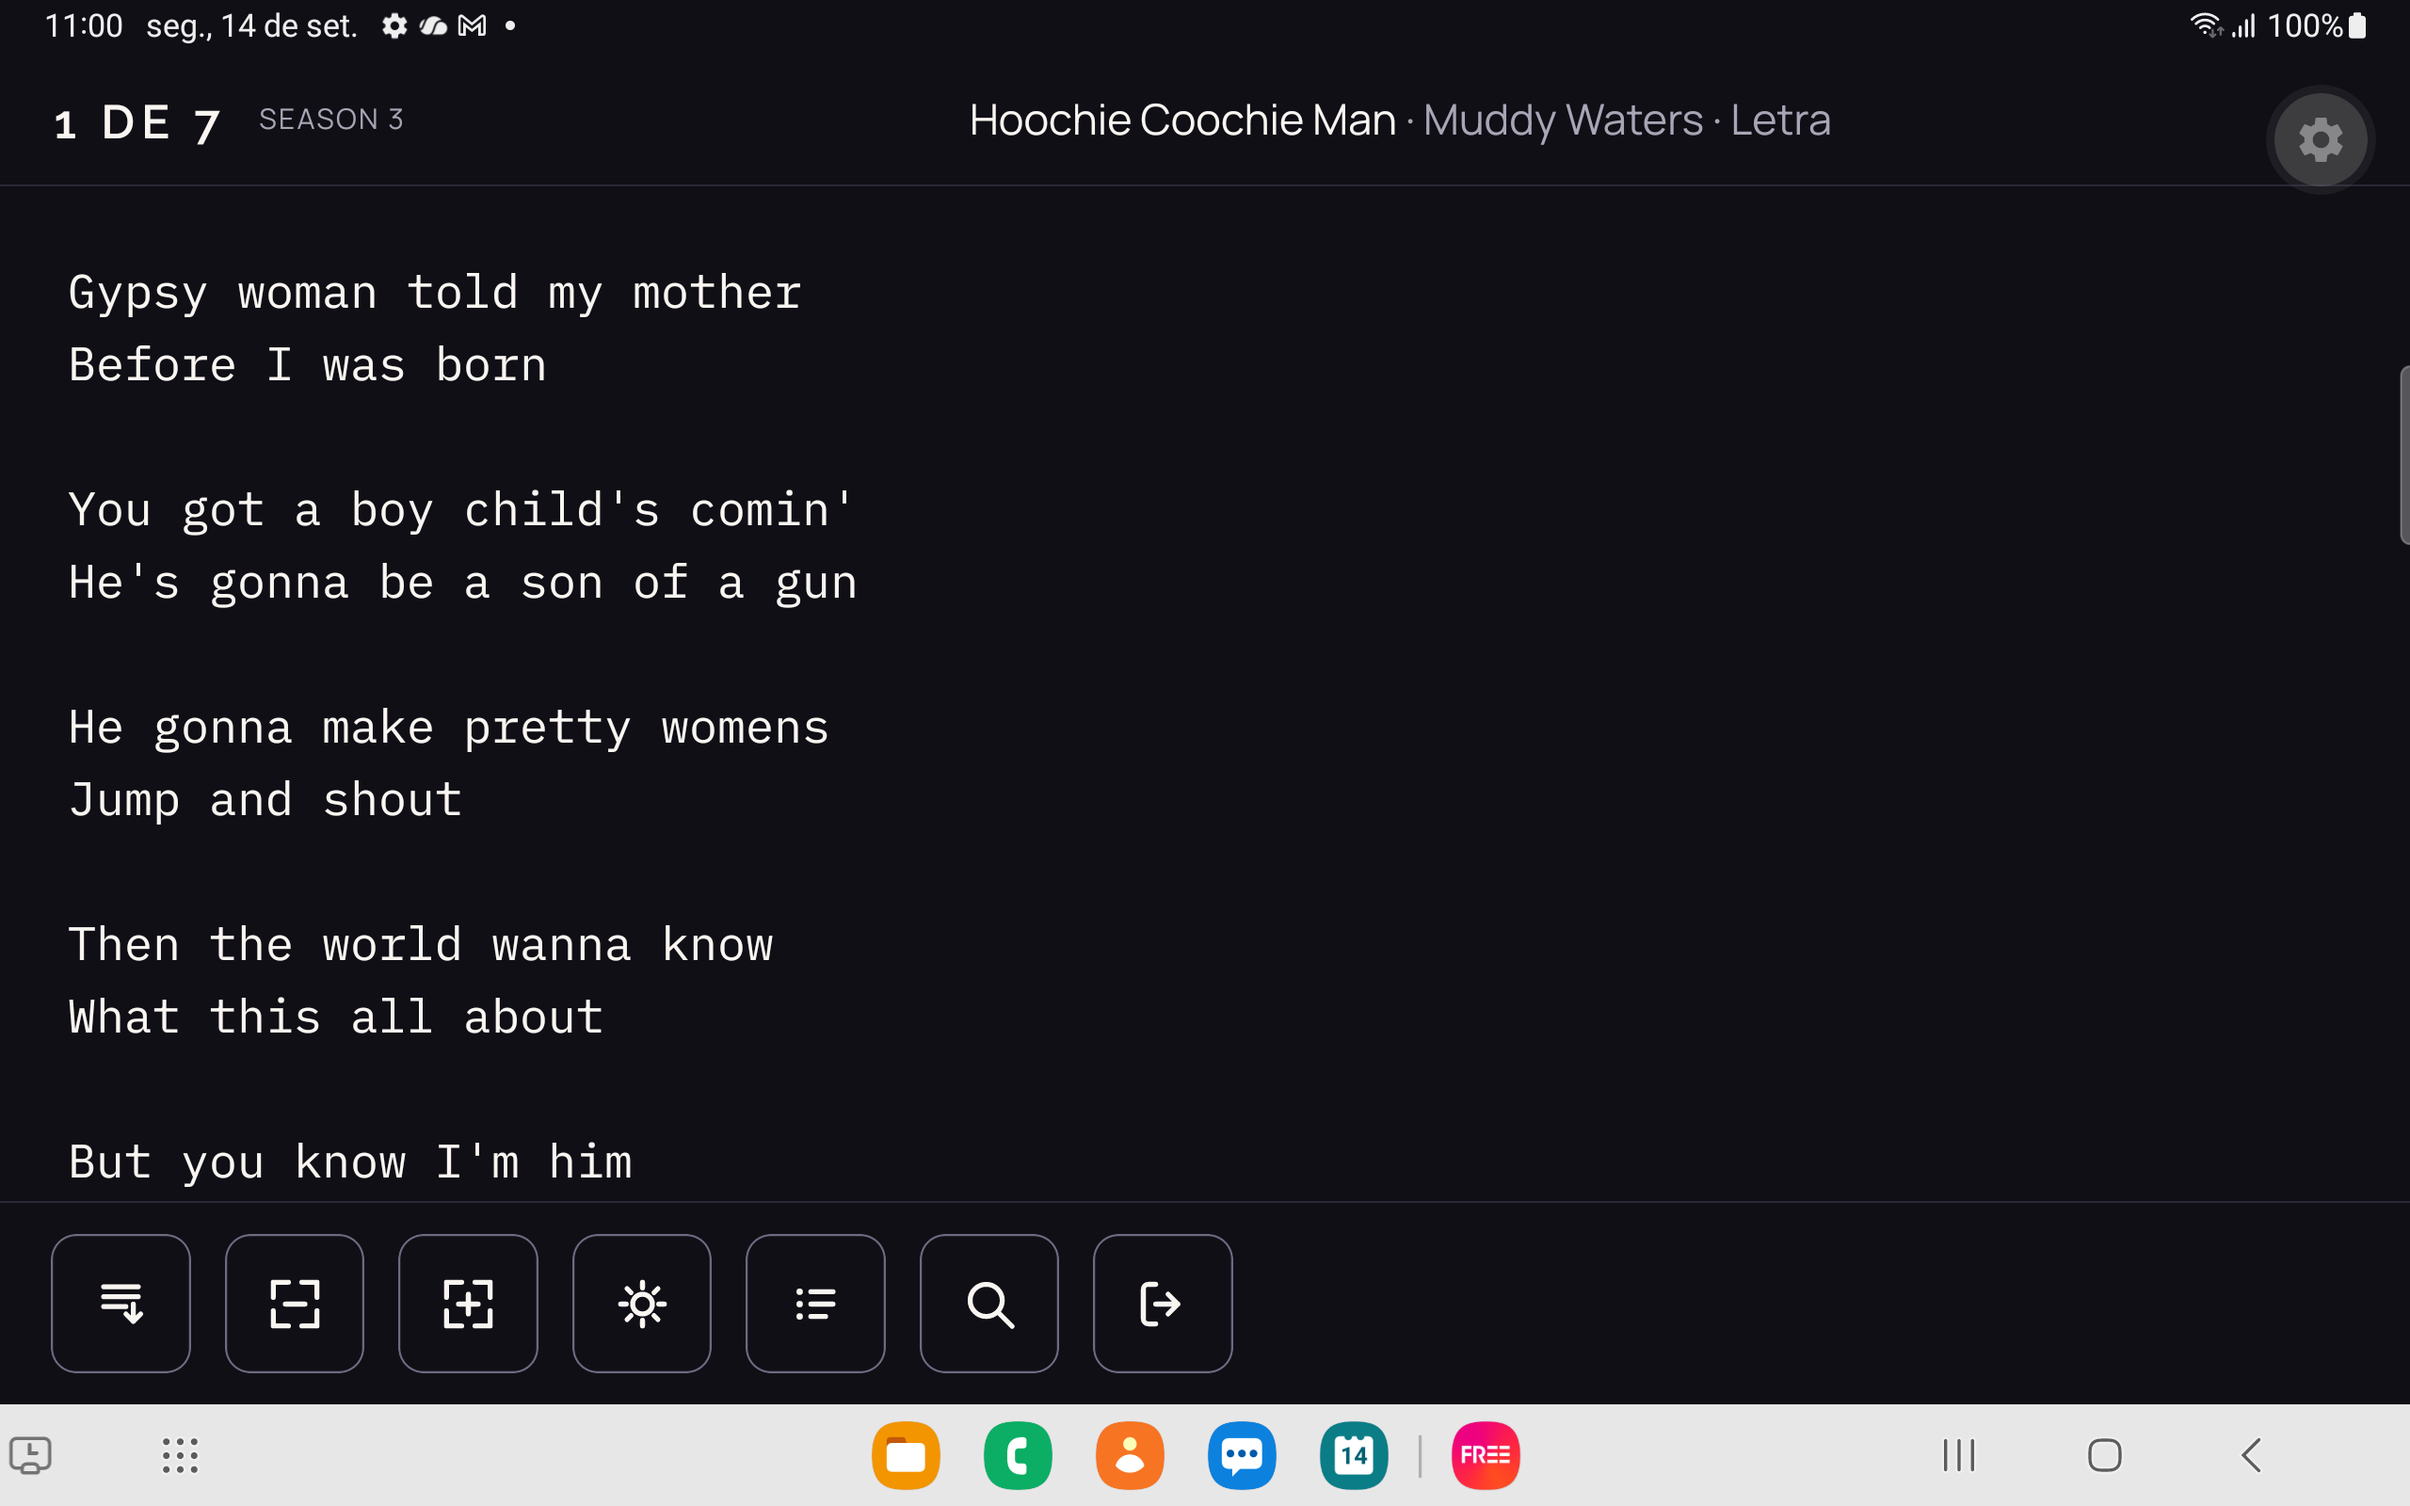
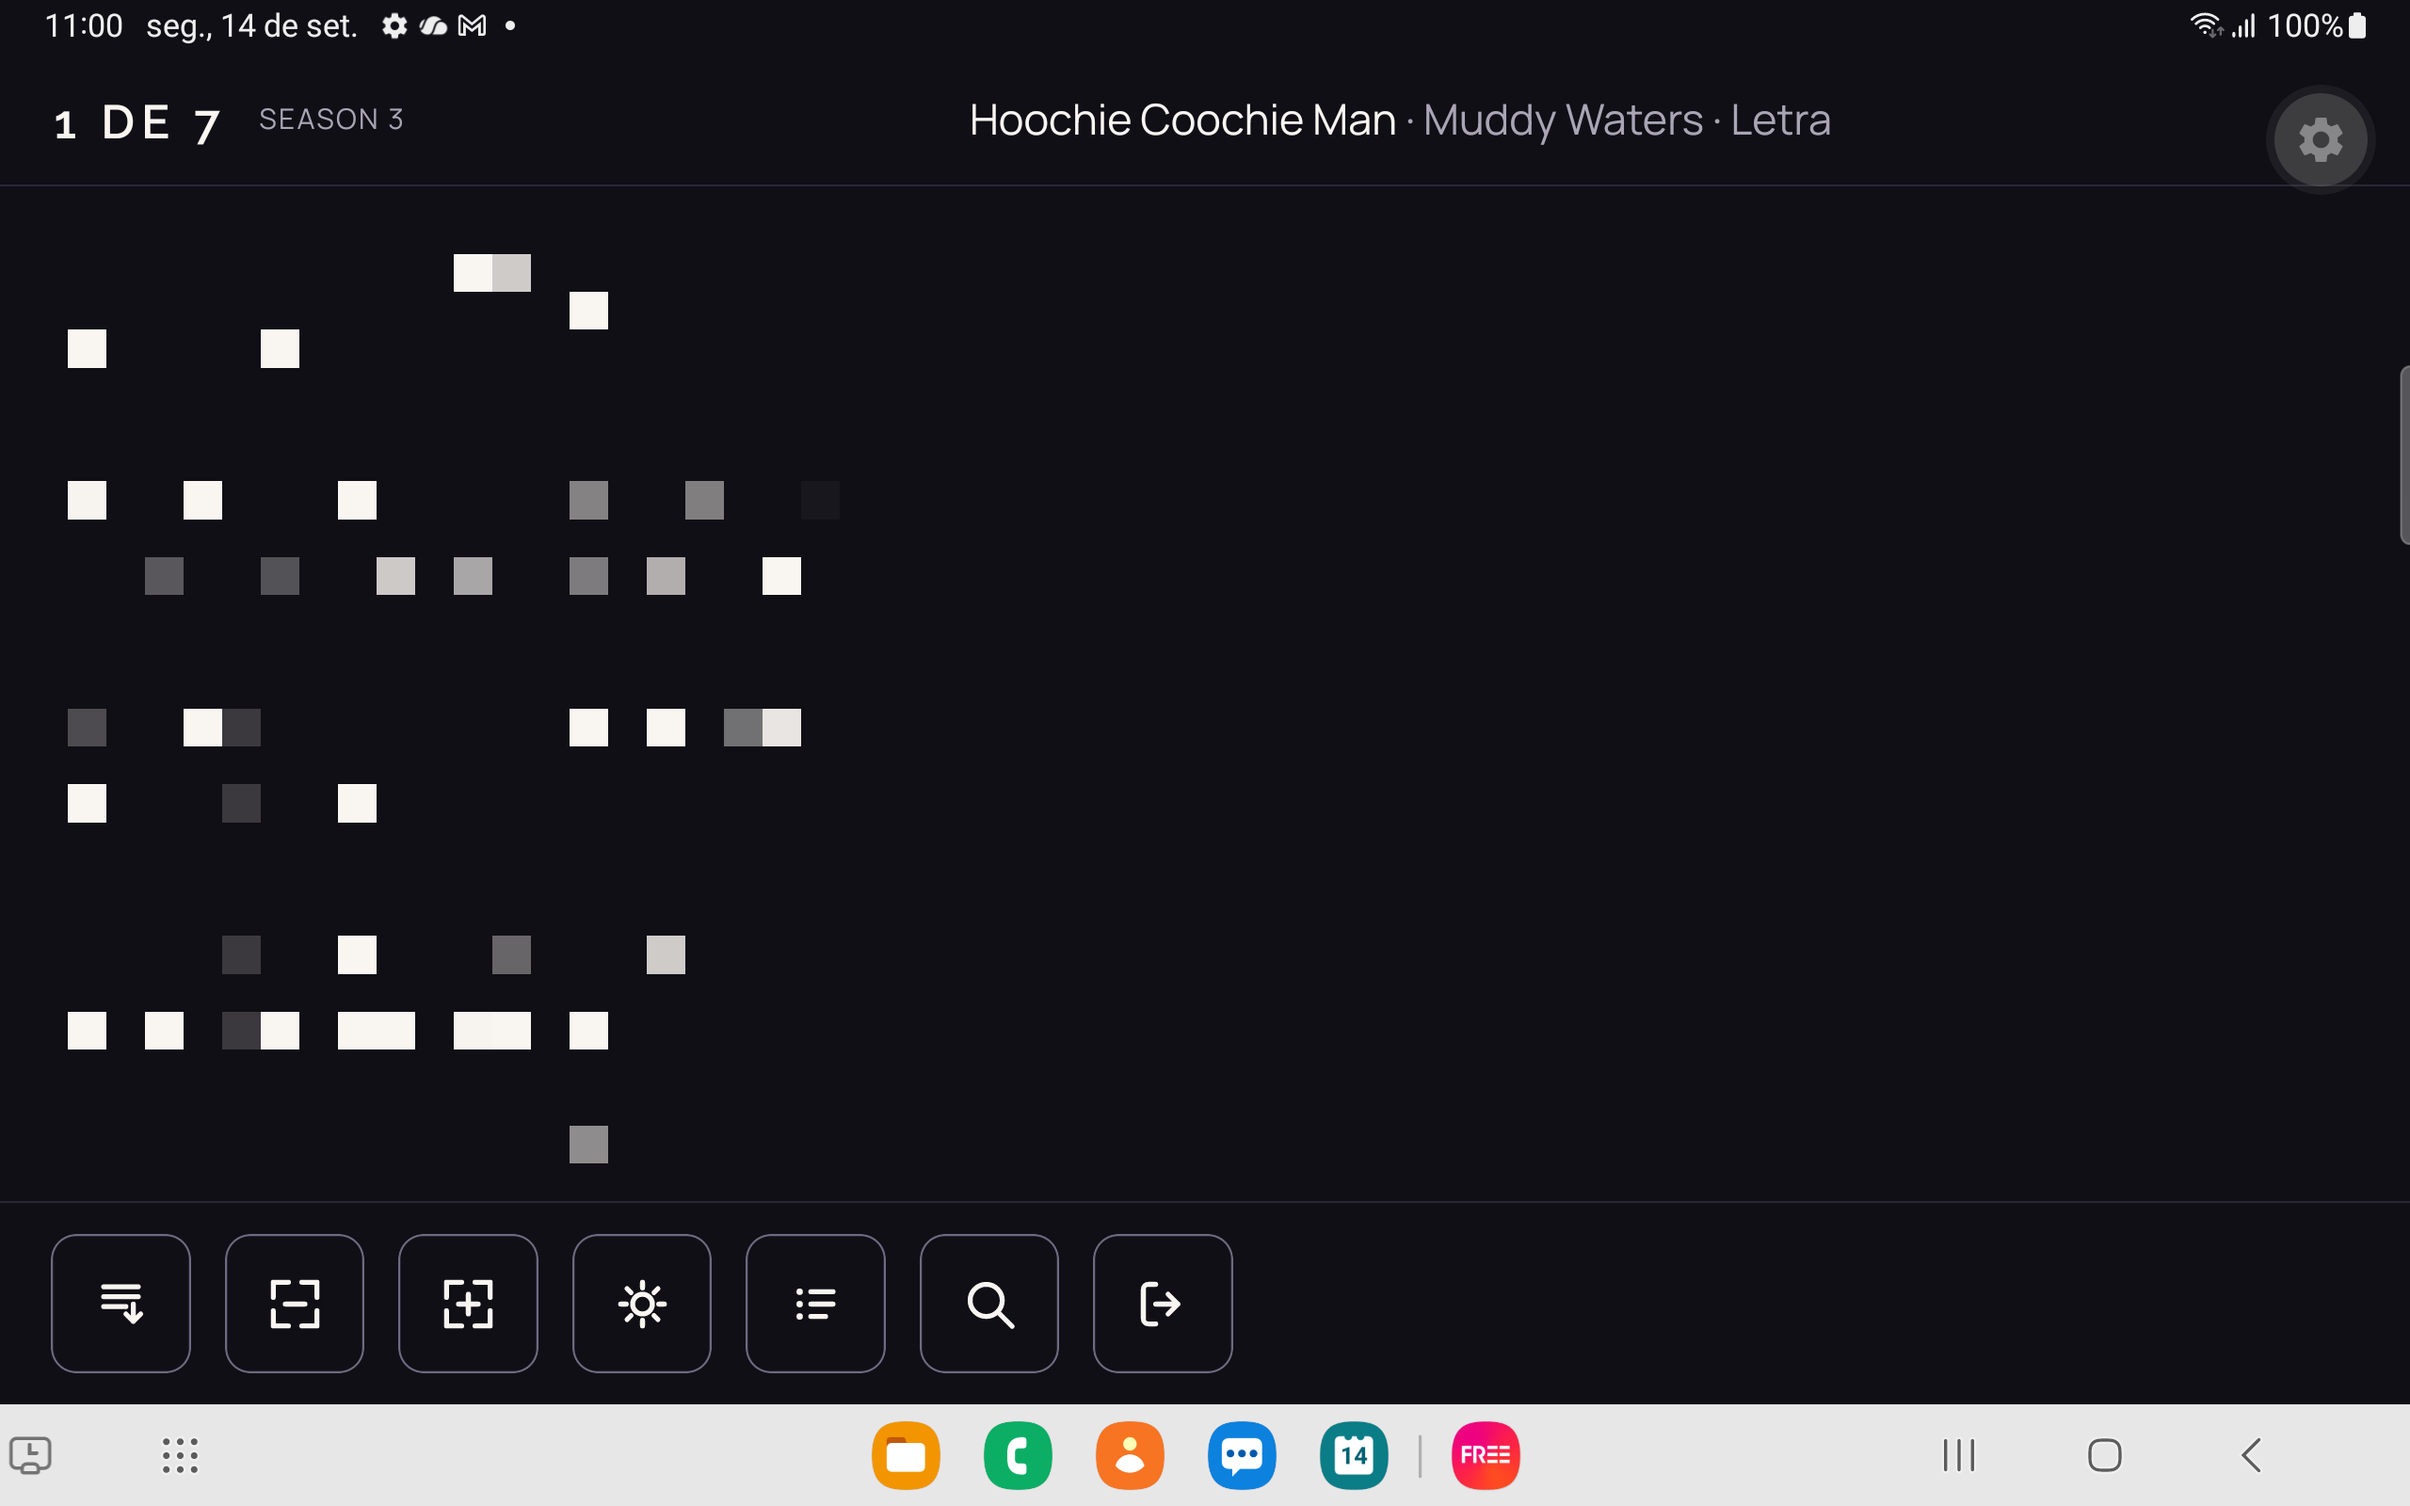
docs(N2): regra completa no CLAUDE.md, PNGs do V1 pixelizadas (div. 210), div. 211 → W4-a
A regra "Anexo não carrega texto de música" ganha os dois limites: o
texto-fixture do projeto (87 arquivos da varredura) fica, e arquivo com
sha256 registrado em documento não se reescreve por ela.

Div. 210 fechada: nas cinco PNGs irmãs dos dumps editados no commit
anterior, só a região do nó corpo foi pixelizada (Pillow, NEAREST, bloco
de 40 px), com o bounds lido do dump ao lado. Dimensões iguais antes e
depois; barras, controles e cabeçalho intactos. Tabela com bounds, região
e sha novo na §5.1 do README.

Div. 211 marcada com destino W4-a, caso 23 do padrão; não investigada
aqui.

diff --git a/docs/native/N2-BRIEF-anexos/README.md b/docs/native/N2-BRIEF-anexos/README.md
@@ -144,9 +144,39 @@ atributos `text` mascarados é **idêntica** antes e depois, o número de
 atributos `text` não mudou (72, 72, 72, 72, 71) e **um** deles difere. Os
 cinco continuam válidos como XML.
 
+### 5.1 As cinco PNGs irmãs (div. 210)
+
+Cada imagem teve **só** a região do nó `corpo` pixelizada, com o `bounds`
+lido do dump ao lado dela — o mesmo `bounds` que o marcador
+`[… bounds preservado]` cita. Bloco de **40 px**: nenhum verso fica legível,
+e barras, controles, cabeçalho e barra de status seguem intactos, como a
+prova de cada aceite do V1-PR7 exige. O arquivo é reescrito no lugar, com as
+mesmas dimensões.
+
+O comando, verbatim (Pillow 12.3.0 num venv do scratchpad; `BLOCK = 40`):
+
+```python
+reg = im.crop((x1, y1, x2, y2))
+peq = reg.resize((reg.width // BLOCK, reg.height // BLOCK), Image.NEAREST)
+im.paste(peq.resize(reg.size, Image.NEAREST), (x1, y1))
+```
+
+| arquivo (`docs/native/V1-PR7-anexos/dumps-tabs6/`) | `bounds` pixelizado | região | antes | depois | sha256 depois |
+|---|---|---|---|---|---|
[5 lines of base64/hex data omitted]
+
+As três primeiras imagens continuam **diferentes entre si** — o relógio do
+aparelho marca 10:37 em `A16-palco-inicio.png`, 11:00 em `A16-palco-fim.png`
+e 10:29 em `S3-palco-1de7.png` —, embora os três XML sejam idênticos entre
+si. Ver div. 211.
+
 | div. | o que | o que foi feito |
 |---|---|---|
 | **208** | O alcance da div. 204 é maior do que um arquivo, e as duas classes são diferentes: letra de terceiro contra texto-fixture do projeto. Além disso, **6** dos 92 arquivos têm o sha256 registrado em docs (`C-PRECHECK-anexos/B-P2-setlists.json`, `B-P5-content.json`, `B-P6-setlist.json` em `C-PRECHECK.md`/`C-ENCERRAMENTO.md`; `V1-A1-inventario-alvos.txt` em `V1-PRECHECK.md`; `V1-PR6-A-estados-antes-depois.txt` no README do V1-PR6; `DESIGN-V1/telas.html` no `SHA256SUMS` do design congelado) — reescrever qualquer um deles quebraria o registro. | Decisão do Marcel (2026-09-20): **só as 5 letras reais**. Nenhum sha registrado mudou; o design congelado não foi tocado. A regra do `CLAUDE.md` vale **para frente**: o texto-fixture do projeto não é obra de terceiro, mas anexo novo também não precisa carregá-lo. |
 | **209** | A omissão vale para o **conteúdo atual**, não para a história. O `C6.png` inteiro está no commit `34d7064` desta branch, e os cinco dumps do V1-PR7 estão na `main` desde a PR #300. | Registrado. Tirar da história exigiria reescrever a branch (`--force-with-lease`, ainda possível aqui porque a PR não foi mergeada) e, na `main`, reescrever história já publicada — **decisão do Marcel**, não feita aqui. |
-| **210** | As **PNGs irmãs** dos cinco dumps (`A16-palco-inicio.png`, `A16-palco-fim.png`, `S3-palco-1de7.png`, `AVicones-A-texto.png`, `S3-tema-claro.png`) mostram a mesma letra na tela do palco. Recortá-las às barras, como se fez no C6, pode invalidar a prova que cada uma sustenta no V1-PR7. | Não tocadas: fora do alcance escolhido na div. 208 e do item 2 desta entrega. Ficam registradas, com destino do Marcel. |
-| **211** | Achado sobre prova alheia, não causado aqui: `A16-palco-inicio.xml`, `A16-palco-fim.xml` e `S3-palco-1de7.xml` do V1-PR7 já eram **byte a byte idênticos** entre si na `main` (sha `327fa19f…`), embora o A16 trate "início" e "fim" como dois estados. | Registrado; a omissão do corpo preservou a propriedade (os três seguem idênticos entre si). Rever a prova do A16 é **destino do Marcel**, fora do N2. |
+| **210** | As **PNGs irmãs** dos cinco dumps (`A16-palco-inicio.png`, `A16-palco-fim.png`, `S3-palco-1de7.png`, `AVicones-A-texto.png`, `S3-tema-claro.png`) mostravam a mesma letra na tela do palco. | **Fechada**: a região do nó `corpo` de cada dump foi **pixelizada** na imagem correspondente; barras, controles, cabeçalho e o resto da tela ficaram intactos, e as dimensões não mudaram. Comando, `bounds` e sha novo de cada uma na §5.1. |
+| **211** | Achado sobre prova alheia, não causado aqui: `A16-palco-inicio.xml`, `A16-palco-fim.xml` e `S3-palco-1de7.xml` do V1-PR7 já eram **byte a byte idênticos** entre si na `main` (sha `327fa19f…`), embora o A16 trate "início" e "fim" como dois estados. | Registrado; a omissão do corpo preservou a propriedade (os três seguem idênticos entre si). **Destino: W4-a, caso 23 do padrão** — não investigado aqui. |

diff --git a/CLAUDE.md b/CLAUDE.md
@@ -79,6 +79,15 @@ banco** — a fonte é o arquivo de migração. Primeira migração da série:
   com `bounds` e estrutura intactos (o `diff` mostra só a linha do texto). Na
   imagem, recorta-se o que a prova precisa (a barra, o controle), nunca a tela
   inteira do palco. No corpo JSON, o anexo não entra.
+- **O que a regra NÃO alcança**: texto-fixture escrito pelo próprio projeto
+  para audit e teste ("Quando a noite chega…", "[Intro] C Am F G", a
+  tablatura `e|---0`) é obra do projeto e fica. A varredura da div. 204 achou
+  87 arquivos assim; nenhum foi tocado.
+- **Arquivo com sha256 registrado em documento** (`C-PRECHECK.md`,
+  `C-ENCERRAMENTO.md`, `V1-PRECHECK.md`, `V1-PR6-anexos/README.md`,
+  `DESIGN-V1/SHA256SUMS`) **não se reescreve por esta regra**: a omissão vale
+  para o que ainda vai ser commitado. Se um deles carregar obra de terceiro, a
+  decisão é do Marcel, com o sha novo registrado ao lado do velho.
 - **O precedente é o `docs/native/N1-PRECHECK.md:365`**: os corpos JSON de prod
   (`setlists.json`, `content-100.json`) ficaram **fora** dos anexos por
   conterem corpo de música. A **div. 204 do N2** estende a mesma regra ao dump
